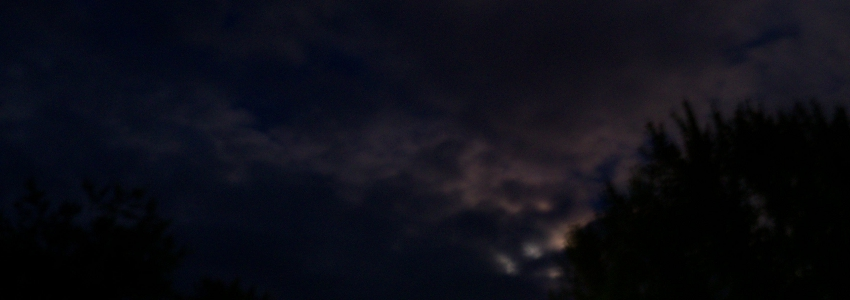
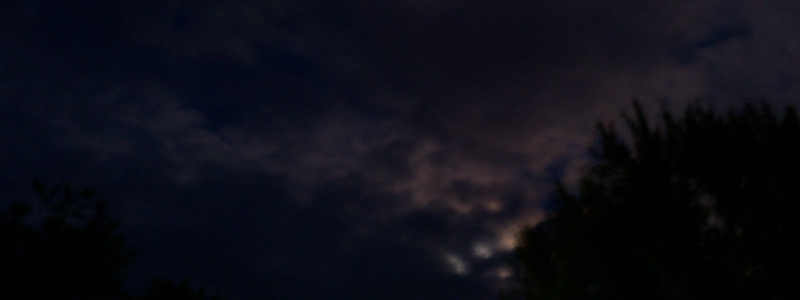
Going with 800x300 header instead of 850x300 because i failed at sizing 9 pictures out of the 10 themes :D

diff --git a/public/css/main.css b/public/css/main.css
@@ -36,7 +36,7 @@ img {
 #page {
 	background: #FFF;
 	margin: auto;
-	width: 850px;
+	width: 800px;
 }
 
 #content {
